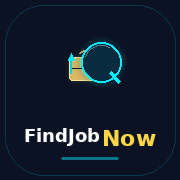
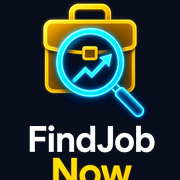
Add files via upload

diff --git a/index.html b/index.html
@@ -108,16 +108,17 @@ details.entry-path>summary::-webkit-details-marker{display:none}
 <header>
   <div class="brand">
     <svg width="28" height="28" viewBox="0 0 32 32" fill="none" aria-hidden="true">
-  <rect width="32" height="32" rx="8" fill="#081020"/>
-  <!-- briefcase gold -->
-  <rect x="7" y="11" width="12" height="9" rx="1.5" fill="#D4B36A"/>
-  <path d="M11 11V9.5a2 2 0 0 1 2-2h2a2 2 0 0 1 2 2V11" stroke="#D4B36A" stroke-width="1.5" fill="none"/>
-  <line x1="8.5" y1="15.5" x2="17.5" y2="15.5" stroke="#081020" stroke-width="1"/>
-  <!-- magnifying glass cyan neon -->
-  <circle cx="20" cy="18" r="5.5" stroke="#00E5F0" stroke-width="2" fill="rgba(0,200,220,0.15)"/>
-  <line x1="24" y1="22" x2="27.5" y2="25.5" stroke="#00E5F0" stroke-width="2.2" stroke-linecap="round"/>
-  <!-- upward arrow -->
-  <path d="M9 20v-5M9 15l-2 2.5M9 15l2 2.5" stroke="#00E5F0" stroke-width="1.3" stroke-linecap="round" stroke-linejoin="round"/>
+  <rect width="32" height="32" rx="8" fill="#080E1C"/>
+  <!-- gold briefcase -->
+  <path d="M10 12.5h12a1.5 1.5 0 0 1 1.5 1.5v7a1.5 1.5 0 0 1-1.5 1.5H10A1.5 1.5 0 0 1 8.5 21v-7A1.5 1.5 0 0 1 10 12.5z" fill="#E8B84A" stroke="#FFD666" stroke-width="0.6"/>
+  <path d="M13 12.5V11a2 2 0 0 1 2-2h2a2 2 0 0 1 2 2v1.5" stroke="#E8B84A" stroke-width="1.4" fill="none"/>
+  <rect x="14.5" y="16.5" width="3" height="2.2" rx="0.4" fill="#E8B84A"/>
+  <!-- cyan magnifying glass -->
+  <circle cx="18.5" cy="18" r="5.2" stroke="#00E8F5" stroke-width="1.8" fill="rgba(0,200,230,0.12)"/>
+  <line x1="22.2" y1="21.8" x2="26" y2="25.5" stroke="#00E8F5" stroke-width="2" stroke-linecap="round"/>
+  <!-- growth arrow inside glass -->
+  <path d="M16 19.5l1.8-2 1.2 1.2 2.2-2.8" stroke="#00E8F5" stroke-width="1.1" stroke-linecap="round" stroke-linejoin="round" fill="none"/>
+  <path d="M20.5 15.2h1.8v1.8" stroke="#00E8F5" stroke-width="1.1" stroke-linecap="round"/>
 </svg>
     <span>FindJob Now</span>
   </div>
